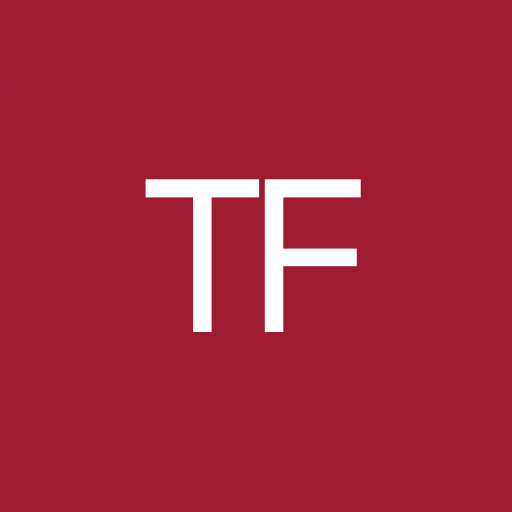
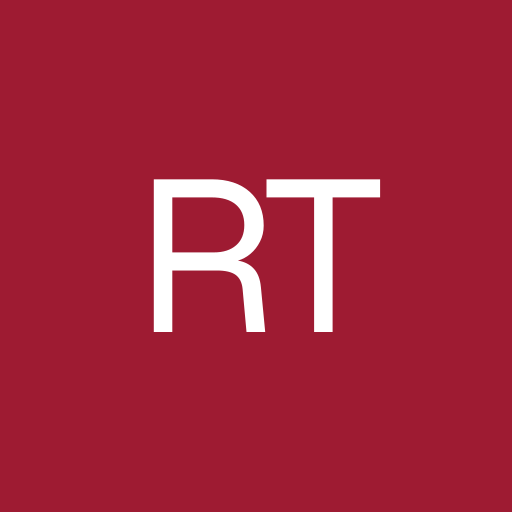
feat: name the product Roll Tutor
A campus-native name beats a descriptive one here. "Tutor Finder" says what
the software does; "Roll Tutor" says where it is from, which is the whole
premise — a tutor who took your course under your professor, on your campus.
The joke is the point: it reads as something a student made for their own
school rather than a marketplace that happens to list Alabama.

Renames the app title and template, the sign-in heading, the shell wordmark,
the sign-in hint, the manifest name, the localStorage key for the remembered
name, and the npm package name. The mark becomes "RT". The repository
directory and the docs keep their working names, which nothing user-facing
reads.

Changed region(s): [[0.2812, 0.3438, 0.7188, 0.6562], [0.6875, 0.3438, 0.75, 0.4062]]

diff --git a/src/app/manifest.ts b/src/app/manifest.ts
@@ -13,14 +13,14 @@ import type { MetadataRoute } from "next";
  * redirects — to sign-in when signed out, to `/courses` when signed in — and
  * launching into a redirect costs a frame of nothing on a cold start.
  *
- * The mark is a placeholder: crimson field, white "TF". It is deliberately not
+ * The mark is a placeholder: crimson field, white "RT". It is deliberately not
  * a logo, and it is here so the installed app is not wearing the framework's
  * default icon. Replace `public/icon-*.png` when there is a real one.
  */
 export default function manifest(): MetadataRoute.Manifest {
   return {
-    name: "Tutor Finder",
-    short_name: "Tutor Finder",
+    name: "Roll Tutor",
+    short_name: "Roll Tutor",
     description:
       "Peer tutors who already took your course — under your professor.",
     start_url: "/courses",

diff --git a/src/app/(auth)/sign-in/sign-in-form.tsx b/src/app/(auth)/sign-in/sign-in-form.tsx
@@ -18,7 +18,7 @@ type State =
  * the last successful send means they do not, and the intake stays under its
  * budget on the second visit as well as the first.
  */
-const NAME_KEY = "tutor-finder:name";
+const NAME_KEY = "roll-tutor:name";
 
 export function SignInForm() {
   const nameId = useId();
@@ -105,7 +105,7 @@ export function SignInForm() {
       <Field
         id={emailId}
         label="University email"
-        hint="Tutor Finder is live at the University of Alabama. Your .edu address is the verification."
+        hint="Roll Tutor is live at the University of Alabama. Your .edu address is the verification."
         error={state.status === "error" ? state.message : undefined}
       >
         <Input

diff --git a/src/app/(auth)/sign-in/page.tsx b/src/app/(auth)/sign-in/page.tsx
@@ -35,7 +35,7 @@ export default async function SignInPage(props: PageProps<"/sign-in">) {
   return (
     <div className="flex flex-col gap-6">
       <div className="flex flex-col gap-2">
-        <h1 className="text-2xl font-semibold tracking-tight">Tutor Finder</h1>
+        <h1 className="text-2xl font-semibold tracking-tight">Roll Tutor</h1>
         <p className="text-base text-muted">
           Peer tutors who already took your course — under your professor.
         </p>

diff --git a/src/components/app-shell.tsx b/src/components/app-shell.tsx
@@ -41,7 +41,7 @@ export function AppShell({
             href={home}
             className="shrink-0 rounded-lg text-sm font-semibold tracking-tight focus-visible:outline-none focus-visible:ring-2 focus-visible:ring-accent focus-visible:ring-offset-2 focus-visible:ring-offset-background sm:text-base"
           >
-            Tutor Finder
+            Roll Tutor
           </Link>
 
           {/*

diff --git a/src/app/layout.tsx b/src/app/layout.tsx
@@ -14,8 +14,8 @@ const geistMono = Geist_Mono({
 
 export const metadata: Metadata = {
   title: {
-    default: "Tutor Finder",
-    template: "%s · Tutor Finder",
+    default: "Roll Tutor",
+    template: "%s · Roll Tutor",
   },
   description:
     "Find a tutor who already took your course, under your professor, at the University of Alabama.",
